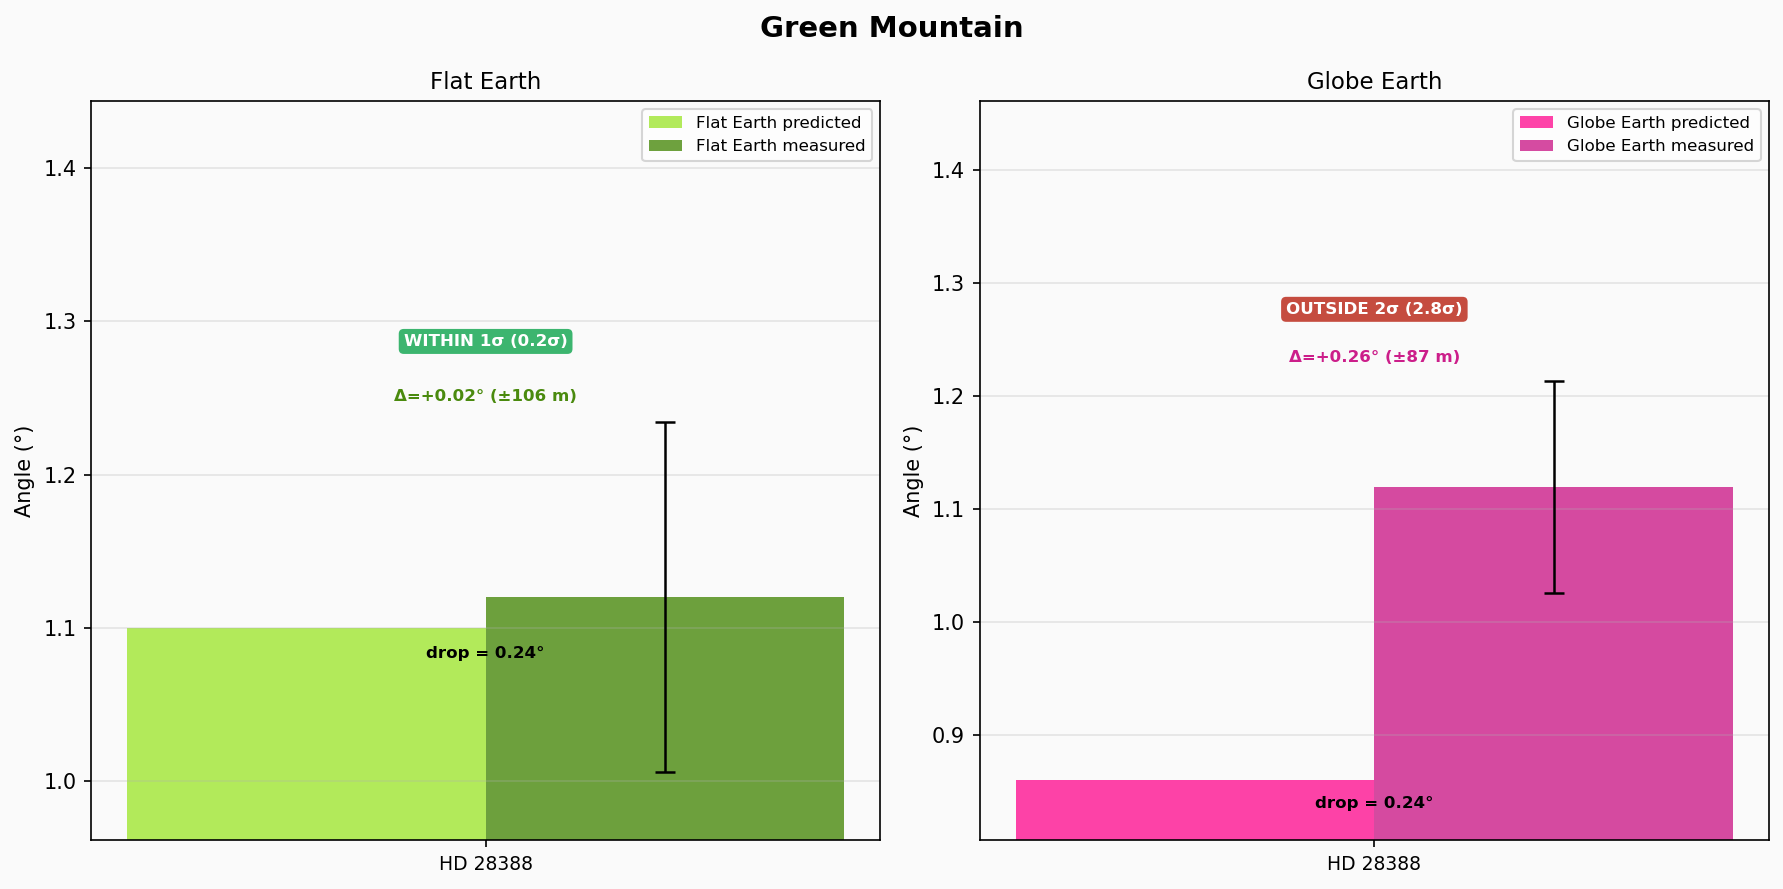
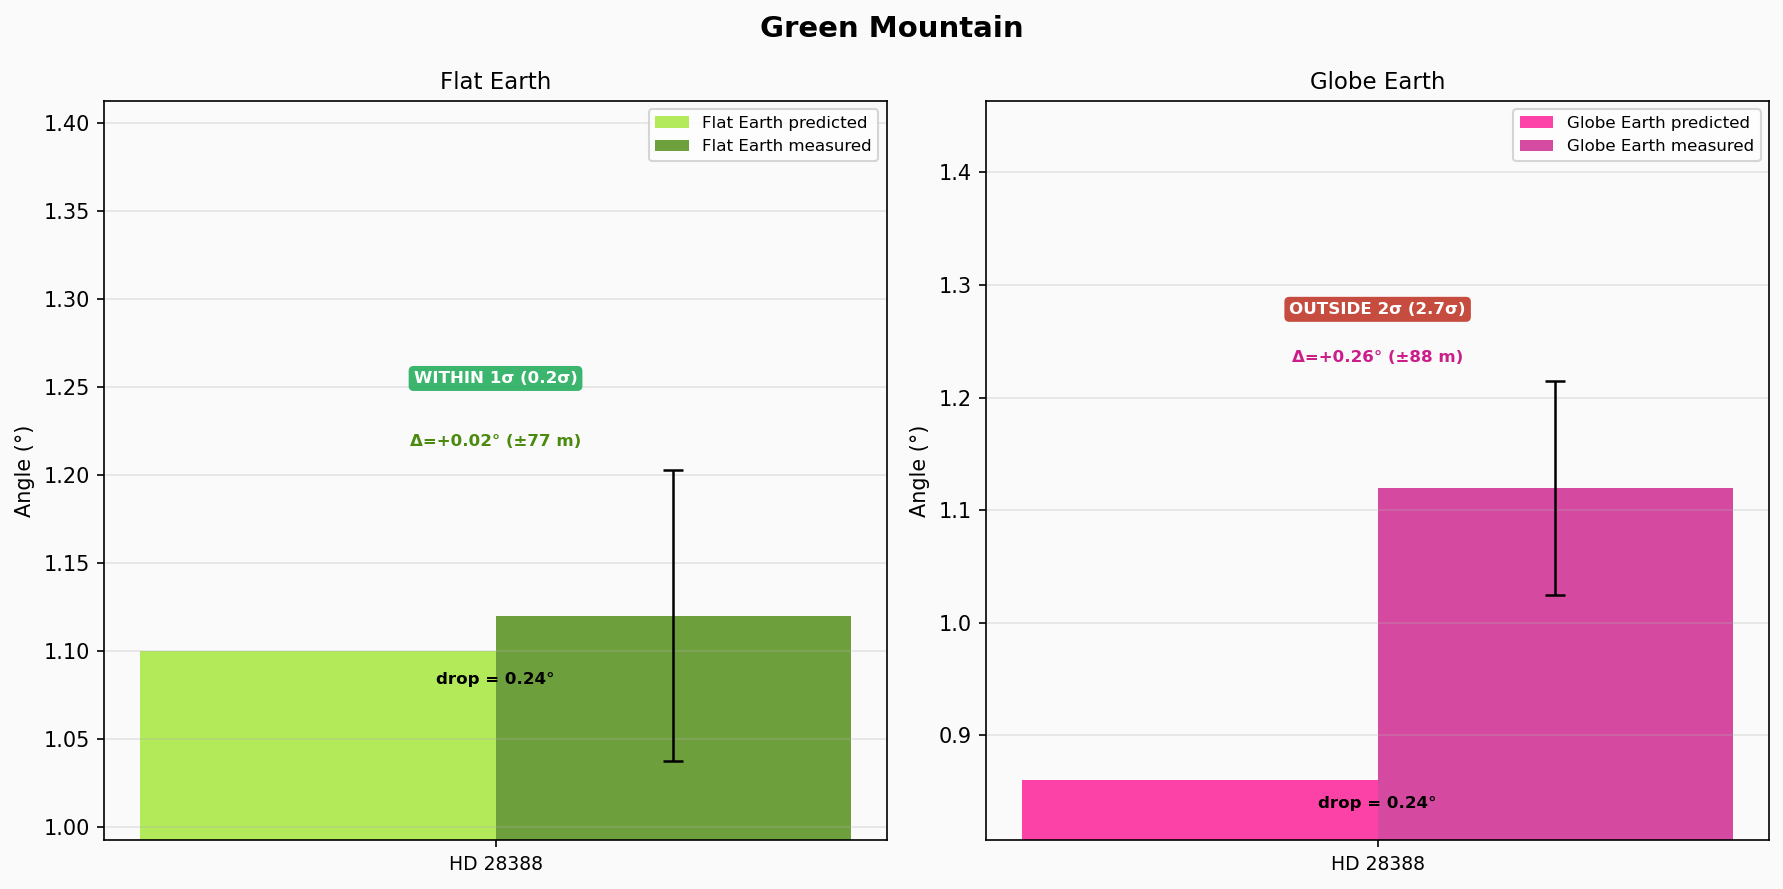
Exclude observations exceeding 100 km from analysis
Add distance filter (d ≈ 2R·θ_drop > 100 km) to both plot scripts
and Jupyter notebook. Currently excludes North Peak / HD55892 (~131 km).
Update README with exclusion preface, revised stats (n=17), and updated
Shapiro-Wilk results. Regenerate all plots. Remove north_peak.png.

diff --git a/plot_individuals.py b/plot_individuals.py
@@ -22,6 +22,7 @@ FE_COLOR_MEAS = "#4a8a0e"  # darker lime (measured)
 GE_COLOR = "#ff1493"       # hot pink (predicted)
 GE_COLOR_MEAS = "#cc1e8a"  # softer deep pink (measured)
 R_EARTH_M = 6_371_000  # mean Earth radius in meters
+MAX_DIST_M = 100_000   # exclude observations beyond 100 km
 
 
 def deg2rad(d: float) -> float:
@@ -42,6 +43,15 @@ def sigma_to_meters(sigma_dd: float, dist_m: float) -> float:
 def load_data(path: Path) -> pd.DataFrame:
     df = pd.read_csv(path, skipinitialspace=True)
     df.columns = df.columns.str.strip()
+    # Estimate observation distance from GE terrestrial drop
+    df["dist_m"] = 2.0 * R_EARTH_M * deg2rad(df["GE_terrestrial_drop_dd"])
+    # Exclude observations beyond 100 km
+    excluded = df[df["dist_m"] > MAX_DIST_M]
+    if len(excluded) > 0:
+        for _, row in excluded.iterrows():
+            print(f"  Excluded: {row['Peak']} / {row['Star']} "
+                  f"(~{row['dist_m']/1000:.0f} km > 100 km)")
+    df = df[df["dist_m"] <= MAX_DIST_M].reset_index(drop=True)
     return df
 
 

diff --git a/plot_intersections.py b/plot_intersections.py
@@ -30,11 +30,23 @@ FE_COLOR = "#a0e632"   # bright lime green
 GE_COLOR = "#ff1493"   # hot pink
 BG_COLOR = "#fafafa"
 
+R_EARTH_M = 6_371_000  # mean Earth radius in meters
+MAX_DIST_M = 100_000   # exclude observations beyond 100 km
+
 
 def load_data(path: Path) -> pd.DataFrame:
     df = pd.read_csv(path, skipinitialspace=True)
     # Normalise column names (strip whitespace)
     df.columns = df.columns.str.strip()
+    # Estimate observation distance from GE terrestrial drop
+    df["dist_m"] = 2.0 * R_EARTH_M * np.deg2rad(df["GE_terrestrial_drop_dd"])
+    # Exclude observations beyond 100 km
+    excluded = df[df["dist_m"] > MAX_DIST_M]
+    if len(excluded) > 0:
+        for _, row in excluded.iterrows():
+            print(f"  Excluded: {row['Peak']} / {row['Star']} "
+                  f"(~{row['dist_m']/1000:.0f} km > 100 km)")
+    df = df[df["dist_m"] <= MAX_DIST_M].reset_index(drop=True)
     # Short label for each observation
     df["label"] = df["Peak"] + "\n" + df["Star"]
     return df

diff --git a/README.md b/README.md
@@ -2,6 +2,8 @@
 
 Gaussian error distribution analysis of celestial theodolite observations comparing Flat Earth (FE) and Globe Earth (GE) model predictions against measured star positions.
 
+**Note:** Observations with an estimated observation distance exceeding 100 km are excluded from this analysis for now. Distance is estimated from the GE terrestrial drop angle as `d ≈ 2R · θ_drop`. Currently this excludes North Peak / HD55892 (~131 km).
+
 ## What This Does
 
 Theodolite intersection data from 17 star observations across 13 peaks is analyzed under two geometric models:
@@ -13,24 +15,24 @@ For each observation, the dataset contains the model's predicted angle, the meas
 
 ## Dataset
 
-18 star observations across 14 peaks:
+17 star observations across 13 peaks (1 observation excluded, see note above):
 
-| Peak | Stars | Location |
-|------|-------|----------|
-| Pikes Peak | 39 Aquarii | Colorado |
-| Blodgett Peak | LP Aquarii | Colorado |
-| Cheyenne Mountain | Mu Fornacis | Colorado |
-| Blue Mountain | HD 32515 | Colorado |
-| Mount Rosa | HD 17320 | Colorado |
-| Green Mountain | HD 28388 | Colorado |
-| North Peak | HD55892 | Colorado |
-| Getaway Peak | HD102928 | Idaho |
-| Hounds Tooth | HD199828 | Utah |
-| Old Blyn | HD206088, HD207098 | Washington |
-| Ediz Spit Blyn | HD187663, 3 Cap | Washington |
-| Puhitampi | Baten Kaitos, 53 Cet | Idaho |
-| Lucky Peak | HD 76600, HIP 45592 | Idaho |
-| Varley SE | Regulus | British Columbia |
+| Peak | Stars | Location | Status |
+|------|-------|----------|--------|
+| Pikes Peak | 39 Aquarii | Colorado | Included |
+| Blodgett Peak | LP Aquarii | Colorado | Included |
+| Cheyenne Mountain | Mu Fornacis | Colorado | Included |
+| Blue Mountain | HD 32515 | Colorado | Included |
+| Mount Rosa | HD 17320 | Colorado | Included |
+| Green Mountain | HD 28388 | Colorado | Included |
+| North Peak | HD55892 | Colorado | Excluded (~131 km) |
+| Getaway Peak | HD102928 | Idaho | Included |
+| Hounds Tooth | HD199828 | Utah | Included |
+| Old Blyn | HD206088, HD207098 | Washington | Included |
+| Ediz Spit Blyn | HD187663, 3 Cap | Washington | Included |
+| Puhitampi | Baten Kaitos, 53 Cet | Idaho | Included |
+| Lucky Peak | HD 76600, HIP 45592 | Idaho | Included |
+| Varley SE | Regulus | British Columbia | Included |
 
 ### CSV Columns
 
@@ -64,7 +66,7 @@ Where:
 
 ### Step 2: Maximum Likelihood Estimation (MLE)
 
-We collect all residuals from the 18 observations and fit a Gaussian using Maximum Likelihood Estimation via `scipy.stats.norm.fit()`. This computes:
+We collect all residuals from the 17 included observations and fit a Gaussian using Maximum Likelihood Estimation via `scipy.stats.norm.fit()`. This computes:
 
 ```
         1   n
@@ -78,27 +80,15 @@ We collect all residuals from the 18 observations and fit a Gaussian using Maxim
             └─────────────────────┘
 ```
 
-**Important**: MLE uses `n` in the denominator (population standard deviation), not `n-1` (sample standard deviation). With n=18 the difference is small (~3%).
+**Important**: MLE uses `n` in the denominator (population standard deviation), not `n-1` (sample standard deviation). With n=17 the difference is small (~3%).
 
-**Results from this dataset (all 18 observations):**
-
-| | FE Residuals | GE Residuals |
-|---|---|---|
-| μ (mean/bias) | 0.1039° | 0.2811° |
-| σ (std dev) | 0.1141° | 0.0938° |
-| \|μ\| (absolute bias) | 0.1039° | 0.2811° |
-
-**Results excluding North Peak outlier (n=17):**
-
-The North Peak observation (HD55892, ΔFE = -0.23°) is the only negative FE residual and sits far from the cluster of other values. Removing it:
+**Results from this dataset (17 observations, North Peak excluded):**
 
 | | FE Residuals | GE Residuals |
 |---|---|---|
 | μ (mean/bias) | 0.1235° | 0.2771° |
 | σ (std dev) | 0.0827° | 0.0950° |
 | \|μ\| (absolute bias) | 0.1235° | 0.2771° |
-
-Without North Peak, FE σ drops from 0.1141° to 0.0827° (a 28% reduction). GE values are largely unchanged since North Peak's GE residual (0.35°) is not an outlier relative to the other GE residuals.
 
 ### Step 3: Normality Validation (Shapiro-Wilk Test)
 
@@ -108,23 +98,14 @@ Before relying on the Gaussian model, we verify the residuals actually follow a 
 - **If p > 0.05**: Cannot reject H₀ — data is consistent with normal
 - **If p ≤ 0.05**: Reject H₀ — data is not normally distributed
 
-**Results (all 18 observations):**
-
-| Model | W statistic | p-value | Verdict |
-|-------|-------------|---------|---------|
-| FE | 0.8918 | 0.0415 | Non-normal (p < 0.05) |
-| GE | 0.9641 | 0.6817 | Normal (p > 0.05) |
-
-The FE residuals fail the normality test (driven by the North Peak outlier at -0.23°). The GE residuals pass.
-
-**Results excluding North Peak (n=17):**
+**Results (17 observations, North Peak excluded):**
 
 | Model | W statistic | p-value | Verdict |
 |-------|-------------|---------|---------|
 | FE | 0.9407 | 0.3266 | Normal (p > 0.05) |
 | GE | 0.9638 | 0.7030 | Normal (p > 0.05) |
 
-With North Peak removed, both models' residuals pass the Shapiro-Wilk normality test.
+Both models' residuals pass the Shapiro-Wilk normality test.
 
 ### Step 4: Error Bars on Measurements
 
@@ -165,10 +146,10 @@ Where `σ_rad = σ_degrees · π / 180`.
 **Example — Pikes Peak (drop = 0.23°):**
 
 ```
-d = 2 × 6,371,000 × (0.23 × π/180) = 51,154 m ≈ 51 km
+d = 2 × 6,371,000 × (0.23 × π/180) = 51,150 m ≈ 51 km
 
-FE error: 51,154 × (0.1172 × π/180) = ±105 m
-GE error: 51,154 × (0.0917 × π/180) = ±82 m
+FE error: 51,150 × (0.0827 × π/180) = ±74 m
+GE error: 51,150 × (0.0950 × π/180) = ±85 m
 ```
 
 ### Step 6: Pass/Fail Determination
@@ -208,14 +189,14 @@ In short, the Gaussian error model describes the statistical distribution of res
 
 ### Overview Plots (`plots/`)
 
-1. **Residual bar chart** — All 18 observations side-by-side, ΔFE vs ΔGE with 1σ error bars
+1. **Residual bar chart** — All 17 observations side-by-side, ΔFE vs ΔGE with 1σ error bars
 2. **Gaussian histograms** — Residual distribution for each model with the fitted normal curve overlaid
 3. **Predicted angle scatter** — FE and GE predictions across all observations
 4. **Violin + swarm plot** — Distribution shape comparison with individual data points
 
 ### Individual Peak Plots (`plots/individuals/`)
 
-14 plots, one per peak. Each has two panels:
+13 plots, one per included peak. Each has two panels:
 
 - **Left panel (lime green)**: FE predicted vs FE measured
 - **Right panel (hot pink)**: GE predicted vs GE measured
@@ -282,7 +263,7 @@ star-intersections/
 ├── README.md
 ├── analysis.ipynb              # Interactive Jupyter notebook
 ├── plot_intersections.py       # Overview plots (4 figures)
-├── plot_individuals.py         # Individual per-peak plots (14 figures)
+├── plot_individuals.py         # Individual per-peak plots (13 figures)
 ├── .gitignore
 └── plots/
     ├── 1_residual_bars.png
@@ -296,7 +277,6 @@ star-intersections/
         ├── blue_mountain.png
         ├── mount_rosa.png
         ├── green_mountain.png
-        ├── north_peak.png
         ├── getaway_peak.png
         ├── hounds_tooth.png
         ├── old_blyn.png
